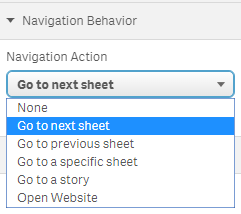
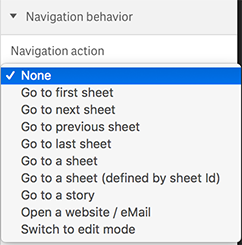
docs: clarify navigation behavior based on v1

diff --git a/docs/config-navigation-behavior.md b/docs/config-navigation-behavior.md
@@ -3,8 +3,12 @@ Define the behavior of the button. The following options are available:
 
 > ![](./images/sense_navigation_behavior.png)
 
-* Go to the next sheet
-* Go to the previous sheet
-* Go to a specific sheet (if selected you'll see a list of sheets you can select from)
-* Go to a story (if selected you'll see a list of stories you can select from)
-* Open website (if selected, you'll have to enter the URL in the appearing text box)
+* Go to first sheet
+* Go to next sheet
+* Go to previous sheet
+* Go to last sheet
+* Go to a sheet _(if selected you'll see a list of sheets you can select from)_
+* Go to a sheet (defined by sheet Id)
+* Go to a story _(if selected you'll see a list of stories you can select from)_
+* Open website / eMail _(if selected, you'll have to enter the URL in the appearing text box)_
+* Switch to edit mode
